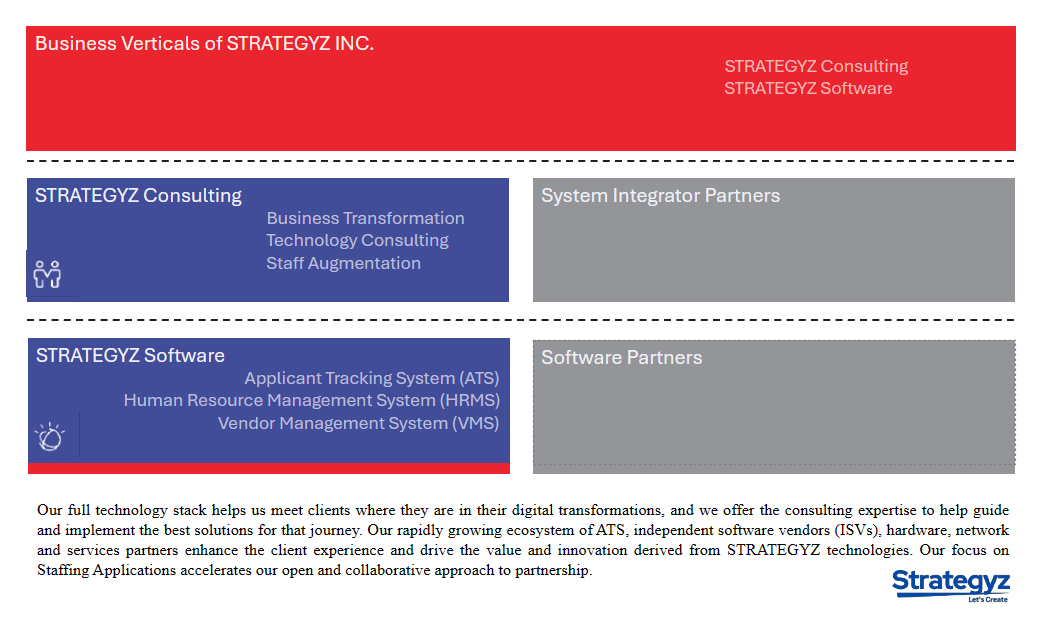
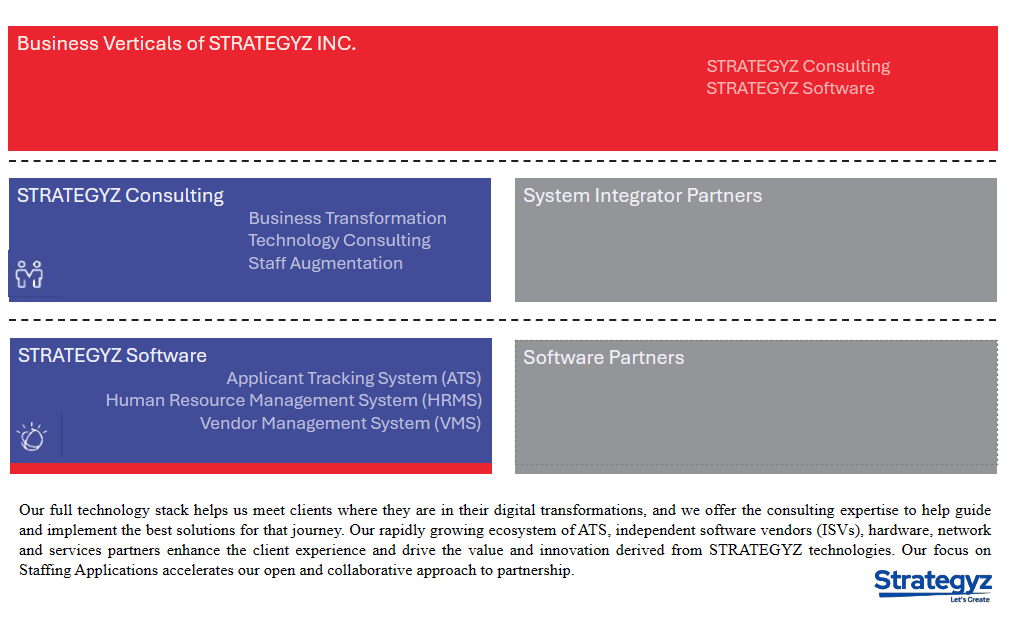
style: Adjust margin and text alignment in sidebar and overview sections

diff --git a/public/css/style.css b/public/css/style.css
@@ -2075,6 +2075,8 @@ label {
 }
 
 .Strategyz_info .sidebar li a {
+  color: #0056b3;
+  font-weight: 500;
   border-left: 3px solid #333;
   text-decoration: none;
   padding: 2rem 0px 2rem 13px;
@@ -2094,7 +2096,7 @@ label {
 }
 
 #overview{
-  text-align: center;
+  text-align: left;
   margin: 0 30px;
   padding-top: 80px;
   
@@ -2105,6 +2107,8 @@ label {
 }
 
 #working{
+  margin: 0 30px;
+  text-align: left;
   padding-top: 80px;
 }
 
